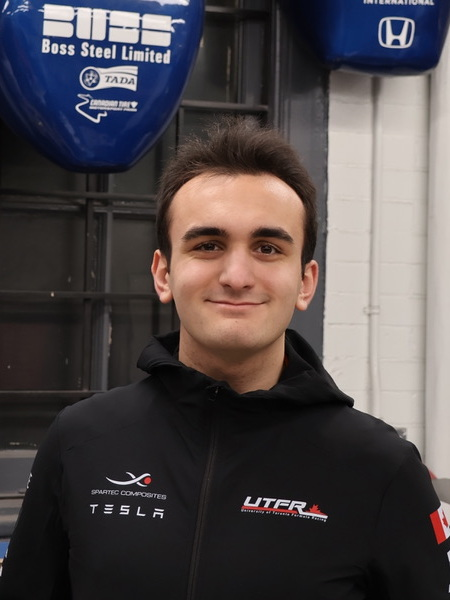
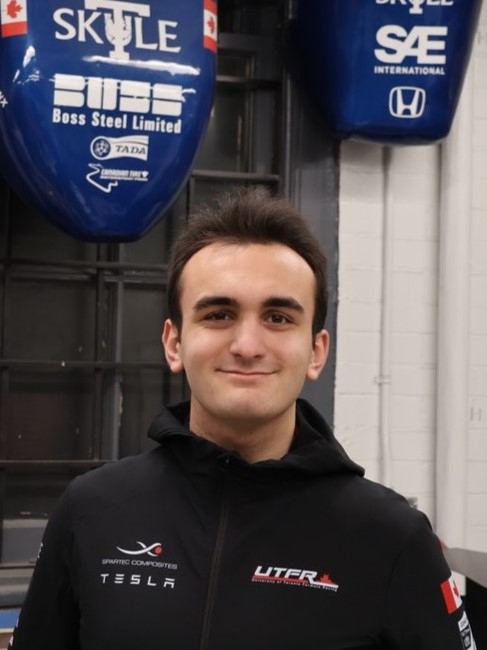
Updated Emily's headshot, added FacFox to Silver

diff --git a/src/components/Sponsors.jsx b/src/components/Sponsors.jsx
@@ -23,15 +23,16 @@ import Topdon from '../assets/Sponsors/SponsorLogosColoured/Topdon.png'
 import Altium from '../assets/Sponsors/SponsorLogosColoured/Altium.png'
 import Ansys from '../assets/Sponsors/SponsorLogosColoured/Ansys.png'
 import Bosch from '../assets/Sponsors/SponsorLogosColoured/Bosch.png'
+import Facfox from '../assets/Sponsors/SponsorLogosColoured/FacFox.png'
 import Ford from '../assets/Sponsors/SponsorLogosColoured/Ford.png'
-import Jule from '../assets/Sponsors/SponsorLogosColoured/Jule.png'
 
+import Jule from '../assets/Sponsors/SponsorLogosColoured/Jule.png'
 import Magna from '../assets/Sponsors/SponsorLogosColoured/Magna.png'
 import MG from '../assets/Sponsors/SponsorLogosColoured/MG.png'
 import Molex from '../assets/Sponsors/SponsorLogosColoured/Molex.png'
 import Movella from '../assets/Sponsors/SponsorLogosColoured/Movella.png'
-import RLX from '../assets/Sponsors/SponsorLogosColoured/RLX.png'
 
+import RLX from '../assets/Sponsors/SponsorLogosColoured/RLX.png'
 import Solidworks from '../assets/Sponsors/SponsorLogosColoured/SolidworksLogo.png'
 import Villa from '../assets/Sponsors/SponsorLogosColoured/Villa.png'
 
@@ -227,24 +228,27 @@ const Sponsors = () => {
                 <div className='flex justify-center pt-10 items-center'>
                     <div className='grid md:grid-cols-5 gap-x-10'>
                         <a href="https://www.altium.com/" target="_blank" rel="noreferrer">
-                            <img className="sponsorImg" src={Altium} alt="" />
+                            <img className="sponsorImg px-2" src={Altium} alt="" />
                         </a>
                         <a href="https://www.ansys.com/academic/students/student-teams" target="_blank" rel="noreferrer">
-                            <img className="sponsorImg" src={Ansys} alt="" />
+                            <img className="sponsorImg px-2" src={Ansys} alt="" />
                         </a>
                         <a href="http://bosch.ca/" target="_blank" rel="noreferrer">
                             <img className="sponsorImg" src={Bosch} alt="" />
                         </a>
                         <a href="https://www.ford.ca/" target="_blank" rel="noreferrer">
-                            <img className="sponsorImg" src={Ford} alt="" />
+                            <img className="sponsorImg px-4" src={Ford} alt="" />
                         </a>
-                        <a href="http://www.julepower.com/" target="_blank" rel="noreferrer">
-                            <img className="sponsorImg" src={Jule} alt="" />
+                        <a href="https://facfox.com/" target="_blank" rel="noreferrer">
+                            <img className="sponsorImg" src={Facfox} alt="" />
                         </a>
                     </div>
                 </div>
                 <div className='flex justify-center pt-10 items-center'>
                     <div className='grid md:grid-cols-5 gap-x-10'>
+                        <a href="http://www.julepower.com/" target="_blank" rel="noreferrer">
+                            <img className="sponsorImg" src={Jule} alt="" />
+                        </a>
                         <a href="https://www.magna.com/" target="_blank" rel="noreferrer">
                             <img className="sponsorImg" src={Magna} alt="" />
                         </a>
@@ -257,13 +261,13 @@ const Sponsors = () => {
                         <a href="http://www.movella.com/" target="_blank" rel="noreferrer">
                             <img className="sponsorImg" src={Movella} alt="" />
                         </a>
-                        <a href="https://rlxsolutions.com/" target="_blank" rel="noreferrer">
-                            <img className="sponsorImg" src={RLX} alt="" />
-                        </a>
                     </div>
                 </div>
                 <div className='flex justify-center pt-10 pb-16 items-center'>
                     <div className='grid md:grid-cols-5 gap-x-10'>
+                        <a href="https://rlxsolutions.com/" target="_blank" rel="noreferrer">
+                            <img className="sponsorImg" src={RLX} alt="" />
+                        </a>
                         <a href="http://www.solidworks.com/students" target="_blank" rel="noreferrer">
                             <img className="sponsorImg" src={Solidworks} alt="" />
                         </a>
